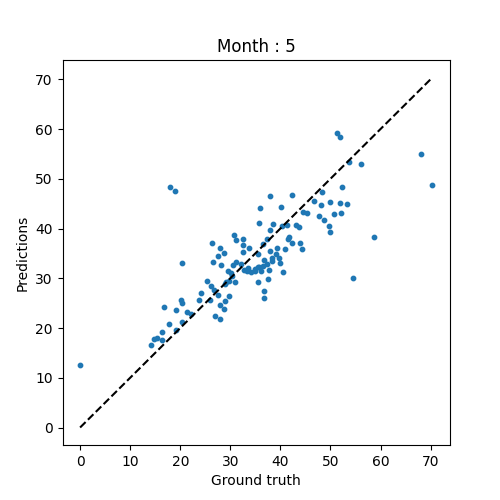
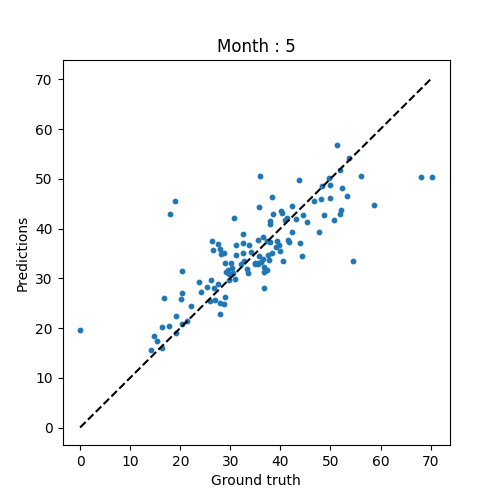
tests results phase 2

diff --git a/main.py b/main.py
@@ -28,7 +28,8 @@ from tools.tools_constants import (
     L1_RATIO,
     LIST_FEATURES, 
     FEATURES_TO_PASS_BINARY, 
-    FEATURES_TO_PASS_COORD
+    FEATURES_TO_PASS_COORD,
+    RANDOM_STATE
 )
 from tools.tools_database import (
     read_data,
@@ -92,14 +93,14 @@ if TEST_MODE:
 model1 = Lasso_reg()
 model_sgd_regressor = sgd_regressor()
 model_linear_regression = sgd_regressor()
-model_dt = decision_tree_reg(max_depth=7, min_samples_leaf=4)
-model_rf = random_forest(n_estim=100, max_depth=7, min_samples_leaf=8)
-model_GBR = GBR(n_estim=1000, max_depth=5, learning_rate=0.01)
-model_HGBR = HGBR(max_iter = 100, max_depth = None, min_samples_leaf = 20, learning_rate = 0.2)
-model_ERT = extremely_random_trees(n_estim = 100, max_depth = None, min_samples_leaf = 1)
-model_XGBReg = XGBRegressor(n_estimators = 200, learning_rate = 0.3, max_depth = 3, random_state = 42) # extreme Gradient Boosting
+model_dt = decision_tree_reg(max_depth = 7, min_samples_leaf = 5)
+model_rf = random_forest(n_estim = 700, max_depth = 20, min_samples_leaf = 15, min_samples_split = 2)
+model_GBR = GBR(n_estim = 1000, max_depth = 5, learning_rate = 0.01, min_samples_split = 140, min_sample_leaf = 5)
+model_HGBR = HGBR(max_iter = 50, max_depth = 7, min_samples_leaf = 20, learning_rate = 0.1)
+model_ERT = extremely_random_trees(n_estim = 300, max_depth = 25, min_samples_split = 27, min_samples_leaf = 1)
+model_XGBReg = XGBRegressor(n_estimators = 100, learning_rate = 0.3, max_depth = 3, random_state = RANDOM_STATE) # extreme Gradient Boosting
 
-complete_pipeline = make_pipeline(pipeline1, model_HGBR)
+complete_pipeline = make_pipeline(pipeline1, model_rf)
 
 print("=========================")
 print("Starting the pipeline")

diff --git a/tools/tools_models.py b/tools/tools_models.py
@@ -171,7 +171,7 @@ def HGBR(max_iter = 100, max_depth = None, min_samples_leaf = 20, learning_rate 
         random_state = RANDOM_STATE
     )
 
-def random_forest(n_estim = 100, max_depth = None, min_samples_leaf = 1):
+def random_forest(n_estim = 100, max_depth = None, min_samples_leaf = 1, min_samples_split = 2):
     """
     Random Forest Regressor
 
@@ -193,6 +193,7 @@ def random_forest(n_estim = 100, max_depth = None, min_samples_leaf = 1):
     return RandomForestRegressor(
         n_estimators = n_estim,
         max_depth = max_depth,
+        min_samples_split = min_samples_split,
         min_samples_leaf = min_samples_leaf,
         random_state = RANDOM_STATE
     )

diff --git a/results.md b/results.md
@@ -33,3 +33,48 @@ Pour min_samples_split  = 130, n_estim = 160, min_samples_leaf = 1, max_depth = 
 - r2 = 0.207
 
 ## second phase
+
+## GBR
+
+Pour n_estim = 1000, max_depth = 5, learning_rate = 0.01, min_samples_split = 140, min_sample_leaf = 5
+- mse = 100.7
+- rmse = 10.0
+- r2 = 0.435
+
+## HGBR
+
+Pour max_iter = 50, max_depth = 7, min_samples_leaf = 20, learning_rate = 0.1
+- mse = 101.07
+- rmse = 10.05
+- r2 = 0.433
+
+## Extremely Random Tree
+
+Pour n_estim = 300, max_depth = 25, min_samples_split = 27, min_samples_leaf = 1
+- mse = 96.51
+- rmse = 9.82
+- r2 = 0.4588
+
+## XGBRegressor
+
+Pour n_estimators = 100, learning_rate = 0.3, max_depth = 3, random_state = RANDOM_STATE
+- mse = 101.89
+- rmse = 10.09
+- r2 = 0.428
+
+## decision tree
+
+Pour max_depth=7, min_samples_leaf=5
+- mse = 108.28
+- rmse = 10.405
+- r2 = 0.393
+
+## sgd_regressor et linear regressor
+résultats horribles
+
+## random forest
+
+Pour n_estim = 300, max_depth = 20, min_samples_leaf = 15, min_samples_split = 2
+- mse = 96.27
+- rmse = 9.81
+- r2 = 0.460
